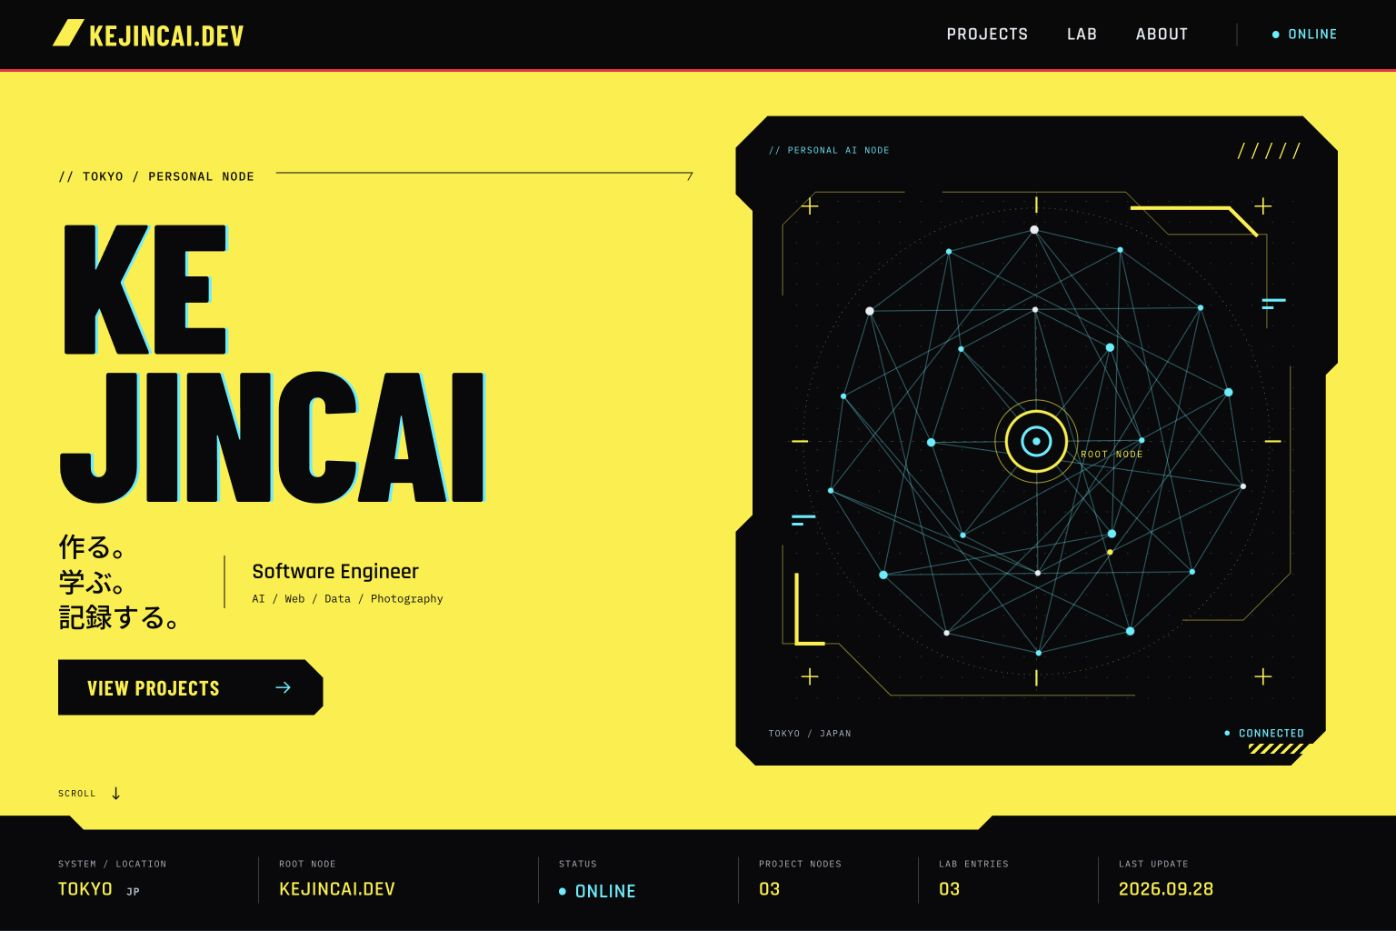
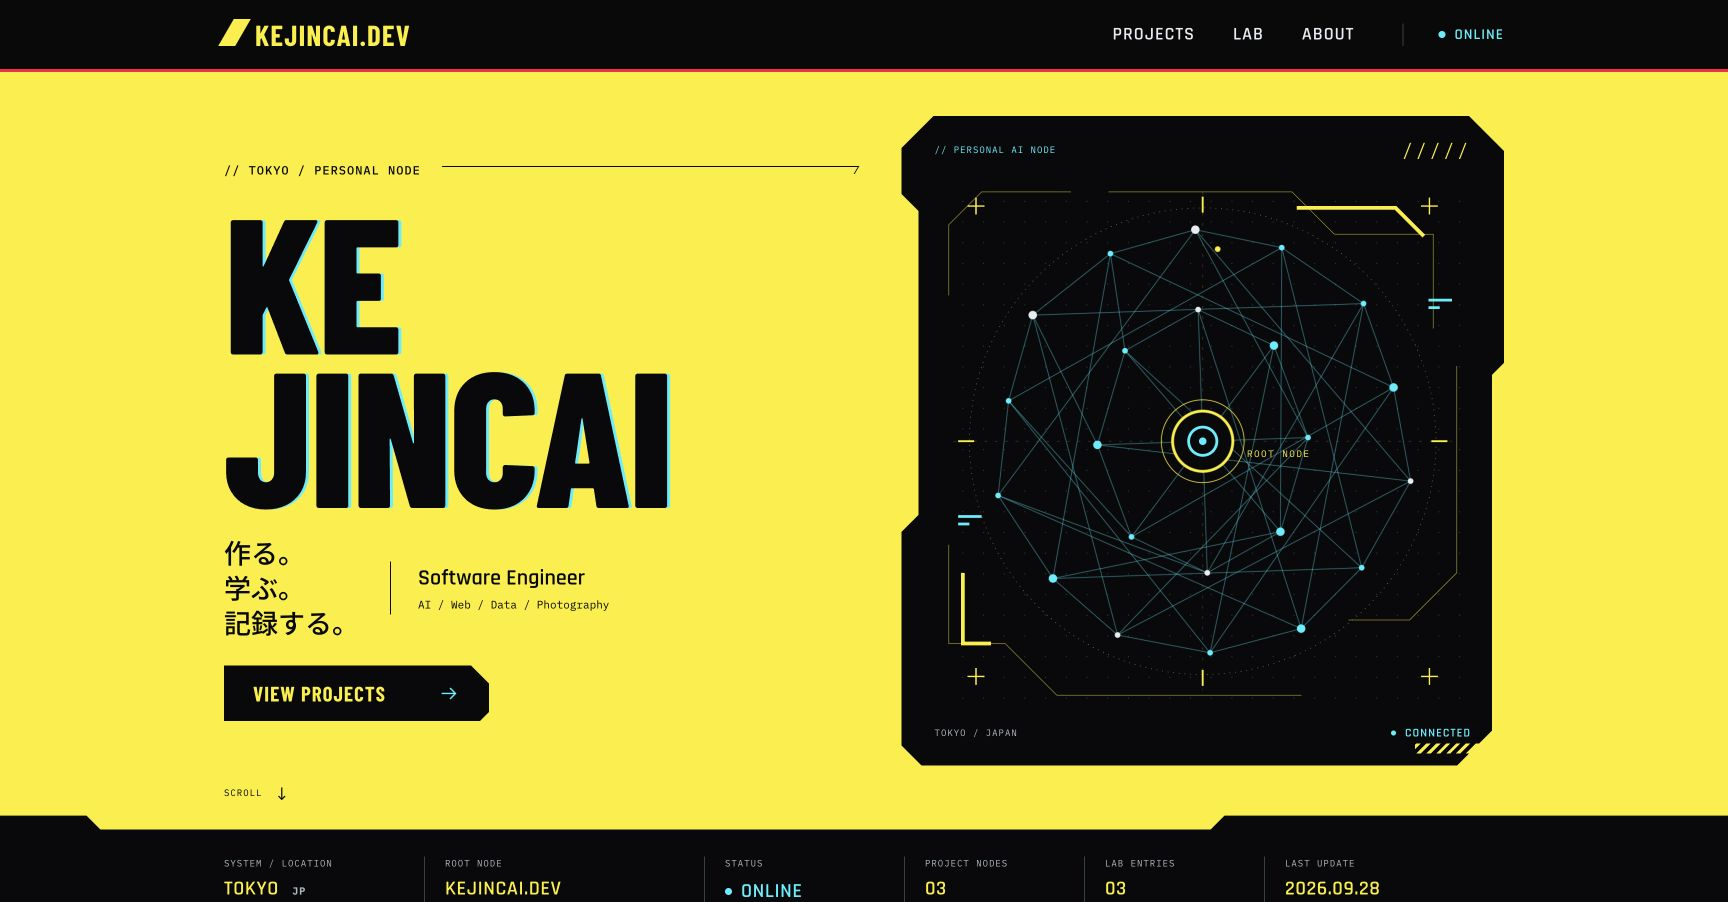
Refresh deployed cyberpunk preview

diff --git a/docs/design/README.md b/docs/design/README.md
@@ -31,7 +31,7 @@ Above-the-fold copy audit: public identity remains KE JINCAI, Japanese lines are
 
 ## Review
 
-The in-app browser was inspected first. Its screenshot and viewport override disagreed, so Chrome was used through the same browser-control tool for reliable retained captures. Desktop screenshot is 1396 × 931, phone screenshot 390 × 844. DOM measurements additionally cover 320px, 768px, 1024px and 1536px widths.
+The in-app browser was inspected first. Its screenshot and viewport override disagreed, so Chrome was used through the same browser-control tool for reliable retained captures. Desktop screenshot is 1728 × 902, phone screenshot 390 × 844. DOM measurements additionally cover 320px, 768px, 1024px and 1536px widths.
 
 The menu, filters and network now initialize immediately and on Astro navigation with duplicate-binding guards. This resolves initial-load timing in Astro's inline module scripts. Reduced motion pauses SVG animation and removes CSS movement.
 

diff --git a/docs/VERIFICATION.md b/docs/VERIFICATION.md
@@ -32,7 +32,7 @@ The initial audit found large Japanese font files. Automatic build-time subsetti
 
 ## Responsive and accessibility checks
 
-- Desktop DOM checked at 1536 × 1024; retained Chrome screenshot at 1396 × 931.
+- Desktop DOM checked at 1536 × 1024; retained Chrome screenshot at 1728 × 902.
 - Phone: 390 × 844 and 320px width.
 - Tablet: 768px and 1024px widths.
 - Home, Projects, CoBRA Detail and About showed no horizontal document overflow at the three smaller widths.
